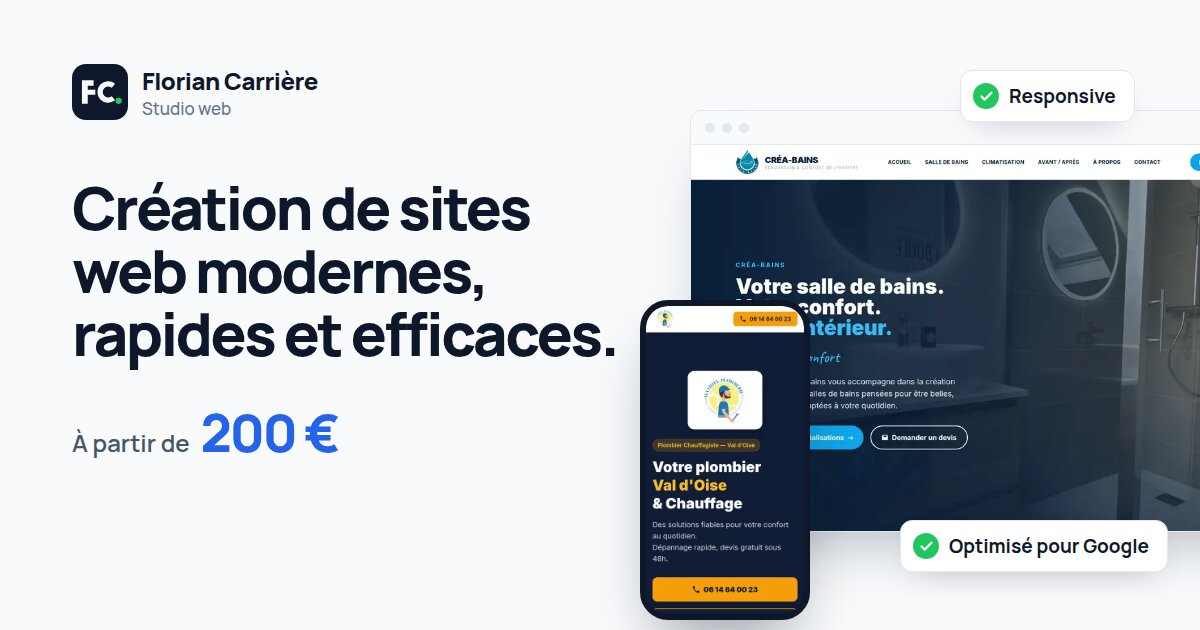
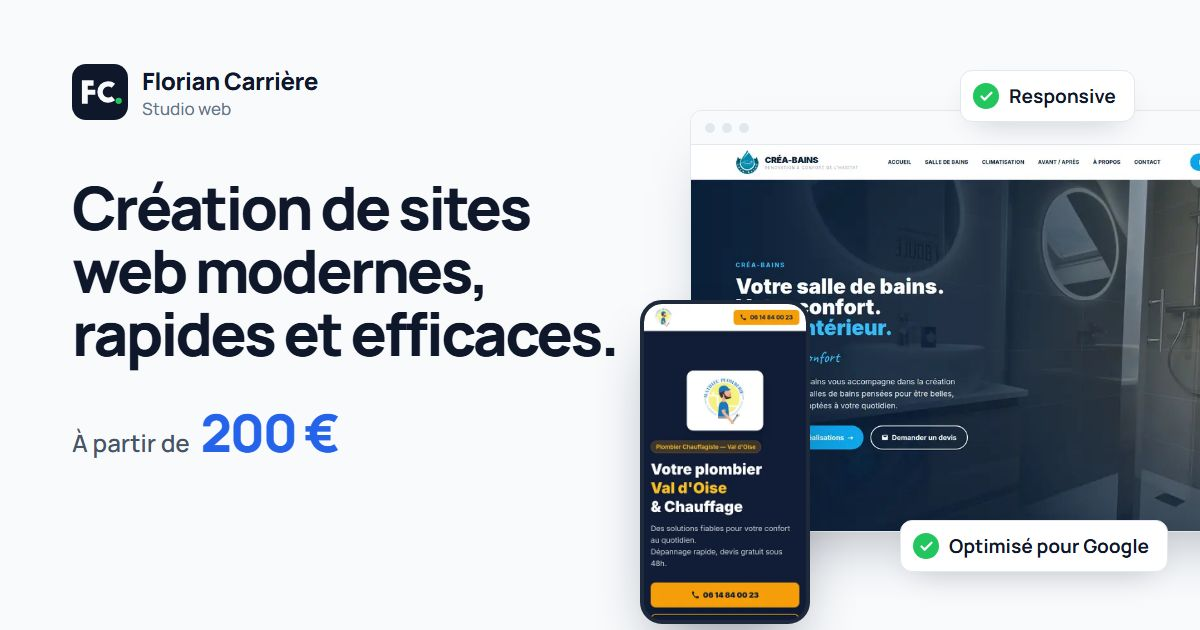
border mobile

diff --git a/scripts/og-image.html b/scripts/og-image.html
@@ -20,8 +20,8 @@
   .bar { height: 34px; background: #f8fafc; border-bottom: 1px solid #e2e8f0; display: flex; gap: 7px; align-items: center; padding-left: 14px; }
   .bar i { width: 10px; height: 10px; border-radius: 50%; background: #e2e8f0; }
   .browser img { display: block; width: 100%; aspect-ratio: 16/10; object-fit: cover; object-position: top; }
-  .phone { position: absolute; left: 640px; top: 300px; width: 170px; border: 6px solid #0f172a; border-radius: 28px; overflow: hidden; background: #0f172a; box-shadow: 0 30px 60px -20px rgb(15 23 42 / .45); }
-  .phone img { display: block; width: 100%; border-radius: 21px; aspect-ratio: 390/760; object-fit: cover; object-position: top; }
+  .phone { position: absolute; left: 640px; top: 300px; width: 170px; border: 4px solid #1e293b; border-radius: 22px; overflow: hidden; background: #1e293b; box-shadow: 0 30px 60px -20px rgb(15 23 42 / .45); }
+  .phone img { display: block; width: 100%; border-radius: 18px; aspect-ratio: 390/760; object-fit: cover; object-position: top; }
   .badge { position: absolute; display: flex; align-items: center; gap: 10px; padding: 12px 18px 12px 12px; background: #fff; border: 1px solid #e2e8f0; border-radius: 12px; box-shadow: 0 12px 32px -16px rgb(15 23 42 / .3); font-size: 19px; font-weight: 700; }
   .badge i { width: 26px; height: 26px; border-radius: 50%; background: #22c55e; display: grid; place-items: center; }
   .badge svg { width: 15px; height: 15px; }

diff --git a/scripts/couverture.html b/scripts/couverture.html
@@ -37,8 +37,8 @@
   .bar { height: 34px; background: #f1f5f9; border-bottom: 1px solid #e2e8f0; display: flex; gap: 8px; align-items: center; padding-left: 16px; }
   .bar i { width: 11px; height: 11px; border-radius: 50%; background: #cbd5e1; }
   .browser img { display: block; width: 100%; aspect-ratio: 16/10; object-fit: cover; object-position: top; }
-  .phone { position: absolute; border: 8px solid #020617; border-radius: 36px; overflow: hidden; background: #020617; box-shadow: 0 40px 80px -24px rgb(0 0 0 / .75); }
-  .phone img { display: block; width: 100%; border-radius: 28px; aspect-ratio: 390/780; object-fit: cover; object-position: top; }
+  .phone { position: absolute; border: 5px solid #334155; border-radius: 26px; overflow: hidden; background: #334155; box-shadow: 0 40px 80px -24px rgb(0 0 0 / .75); }
+  .phone img { display: block; width: 100%; border-radius: 21px; aspect-ratio: 390/780; object-fit: cover; object-position: top; }
 
   .b-left  { left: 330px;  top: 610px; width: 600px; }
   .b-right { left: 990px;  top: 610px; width: 600px; }

diff --git a/src/assets/css/main.css b/src/assets/css/main.css
@@ -872,9 +872,9 @@ ol {
 
 .phone {
   overflow: hidden;
-  border: 5px solid var(--navy);
-  border-radius: 24px;
-  background: var(--navy);
+  border: 3.5px solid #1e293b;
+  border-radius: 19px;
+  background: #1e293b;
   box-shadow: var(--shadow-lg);
 }
 
@@ -883,7 +883,7 @@ ol {
   aspect-ratio: 390 / 760;
   object-fit: cover;
   object-position: top;
-  border-radius: 18px;
+  border-radius: 15.5px;
 }
 
 /* ==========================================================================
